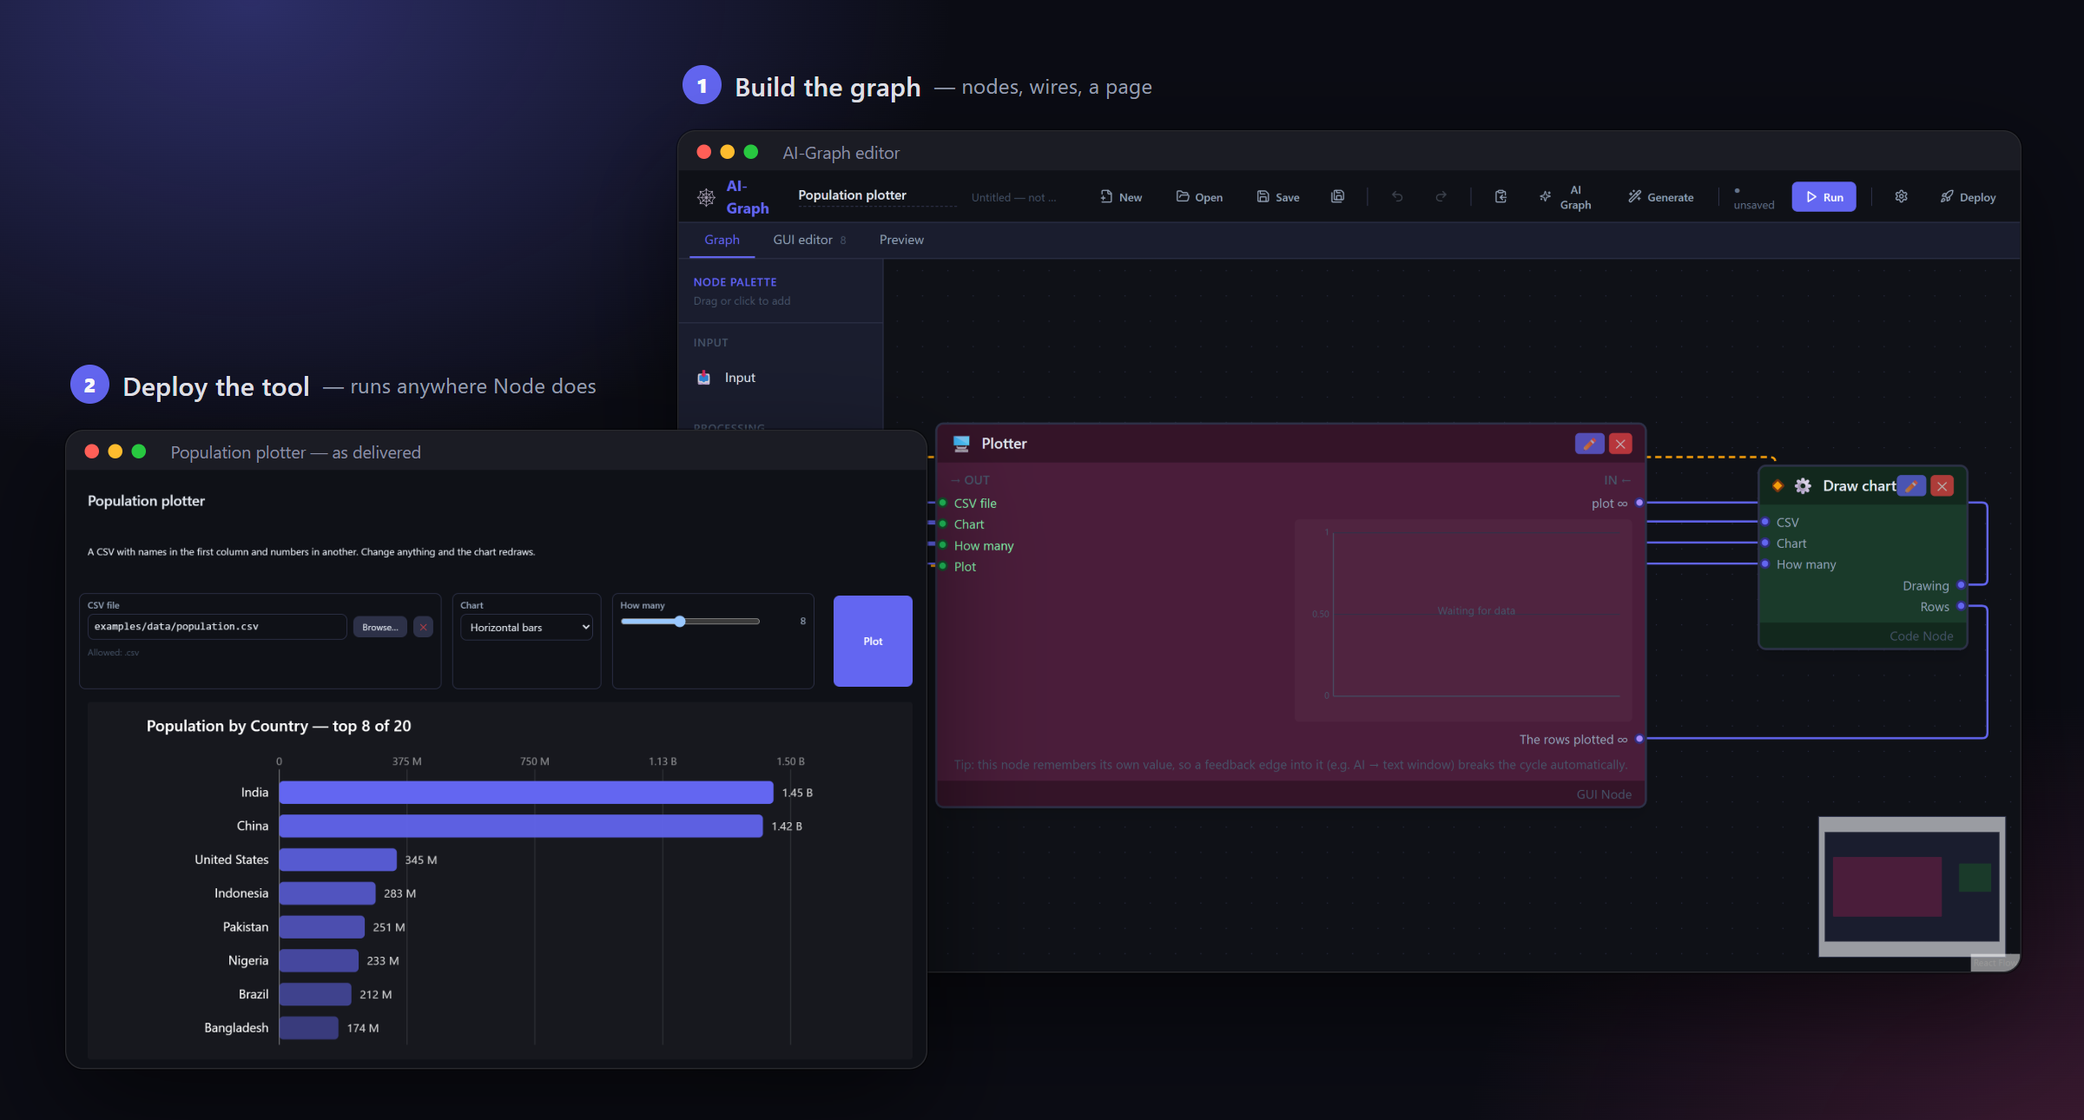
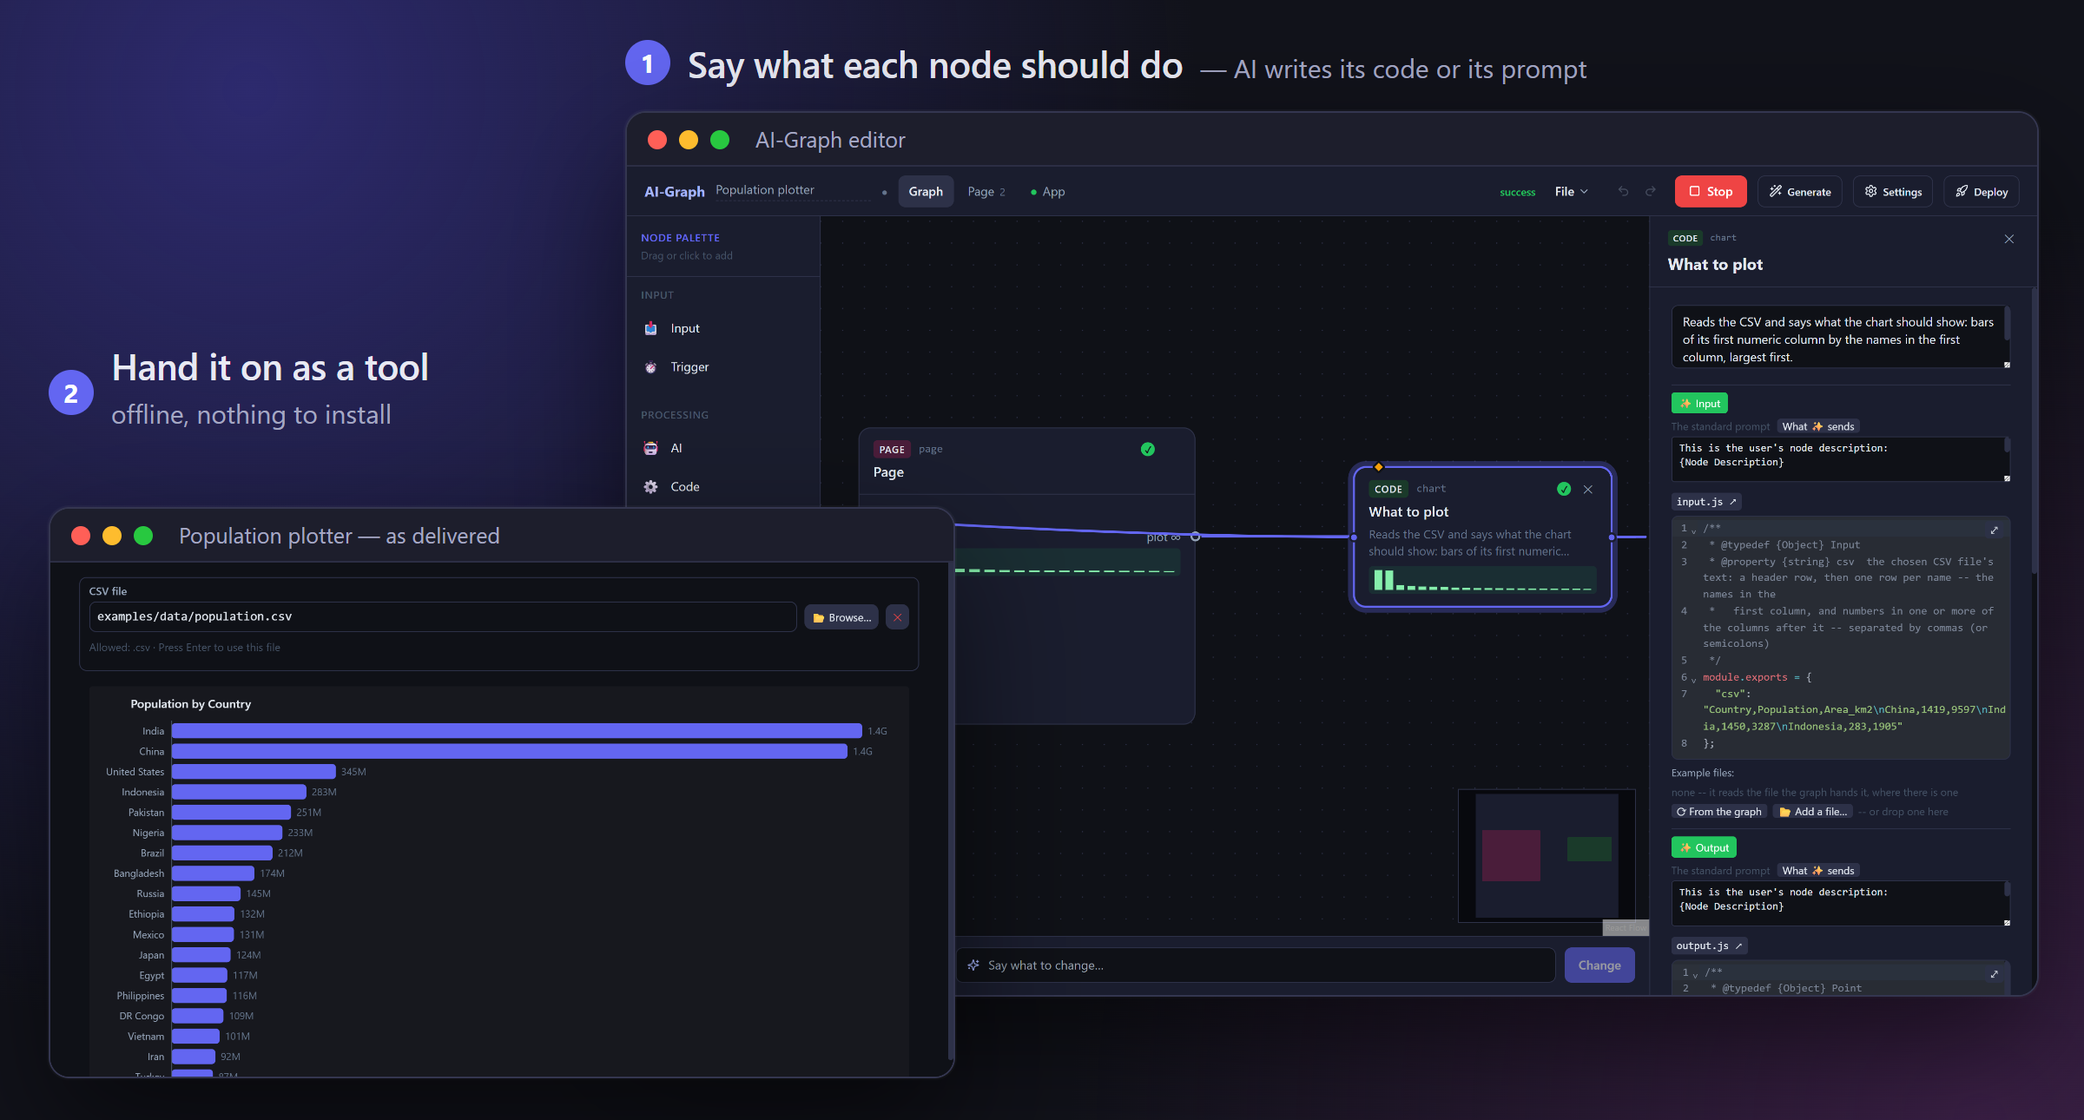
feat(download): zips that carry their own Node -- unzip, double-click, nothing to install
- A release now has one zip per system (windows-x64, macos-arm64, macos-x64,
  linux-x64) with the official Node.js binary in node/, checked against the
  checksums nodejs.org publishes, and its LICENSE beside it; plus
  ai-graph-node-required.zip for any system with a Node of its own. Named
  without the version, so releases/latest/download/<name> is always the newest.
- run.sh, run.cmd and the new run.command (a Mac's double-click) use the Node
  in node/ where the folder has one, else the computer's, checked as before.
- The download test builds a zip with Node in it and starts it on a computer
  whose only Node is too old; it runs on macOS too now.
- README: download links at the top, a table per system, and why no Docker is
  needed; the container is described as what it is for, a server. A new hero
  image from the current editor.
- Version 0.4.0.

diff --git a/engine/src/cli/launchers.ts b/engine/src/cli/launchers.ts
@@ -34,23 +34,33 @@ export interface LauncherOptions {
 /** The node expression that fails on a Node older than NODE_MAJOR. Quote-safe in sh and cmd. */
 const TOO_OLD = `process.exit(Number(process.versions.node.split('.')[0]) < ${NODE_MAJOR} ? 1 : 0)`;
 
+/**
+ * Where a folder carries its own Node: the download for one system has it, so
+ * nothing needs to be installed first -- "install Node 24" was the step that
+ * stopped people who only wanted to try it. Without it, the computer's Node.
+ */
+export const BUNDLED_NODE = { unix: 'node/node', windows: 'node\\node.exe' };
+
 /** `run.sh`, for macOS and Linux. Needs its executable bit -- see `zipMode`. */
 export function runSh({ command, portFromEnv = false }: LauncherOptions): string {
   const port = portFromEnv ? ' ${PORT:+--port "$PORT"}' : '';
   return [
     '#!/bin/sh',
-    `# Needs Node ${NODE_MAJOR} or newer, and nothing else.`,
+    `# Needs Node ${NODE_MAJOR} or newer: the one in ${BUNDLED_NODE.unix} where this folder has it, else this computer's.`,
     '# From its own folder: wherever it was started from, the paths below are relative to it.',
     'cd "$(dirname "$0")" || exit 1',
-    'if ! command -v node >/dev/null 2>&1; then',
+    'NODE=node',
+    `if [ -x ${BUNDLED_NODE.unix} ]; then`,
+    `  NODE=${BUNDLED_NODE.unix}`,
+    'elif ! command -v node >/dev/null 2>&1; then',
     `  echo "Node.js is not installed. Get it from ${GET_NODE} (${NODE_MAJOR} or newer), then run this again." >&2`,
     '  exit 1',
     'fi',
-    `if ! node -e "${TOO_OLD}"; then`,
-    `  echo "This needs Node.js ${NODE_MAJOR} or newer, and this computer has $(node --version). Get the current one from ${GET_NODE}." >&2`,
+    `if ! "$NODE" -e "${TOO_OLD}"; then`,
+    `  echo "This needs Node.js ${NODE_MAJOR} or newer, and this computer has $("$NODE" --version). Get the current one from ${GET_NODE}." >&2`,
     '  exit 1',
     'fi',
-    `exec node ${command}${port} "$@"`,
+    `exec "$NODE" ${command}${port} "$@"`,
     '',
   ].join('\n');
 }
@@ -67,25 +77,32 @@ export function runCmd({ command, portFromEnv = false }: LauncherOptions): strin
   const windowsCommand = command.replace(/\//g, '\\');
   return [
     '@echo off',
-    `rem Needs Node ${NODE_MAJOR} or newer, and nothing else.`,
+    `rem Needs Node ${NODE_MAJOR} or newer: the one in ${BUNDLED_NODE.windows} where this folder has it, else this computer's.`,
     'rem From its own folder: a double-click, a shortcut and "Run as administrator"',
     'rem each start somewhere else, and the paths below are relative to this one.',
     'setlocal',
     'set "CODE=1"',
     'cd /d "%~dp0"',
-    'where node >nul 2>&1 || (',
-    '  echo.',
-    `  echo Node.js is not installed. Get it from ${GET_NODE} ^(${NODE_MAJOR} or newer^), then run this again.`,
-    '  goto :failed',
+    // Unquoted where it is used: both values are free of spaces, and a quoted
+    // command first in `for /f` loses its quotes to cmd /c.
+    'set "NODE=node"',
+    `if exist "${BUNDLED_NODE.windows}" (`,
+    `  set "NODE=${BUNDLED_NODE.windows}"`,
+    ') else (',
+    '  where node >nul 2>&1 || (',
+    '    echo.',
+    `    echo Node.js is not installed. Get it from ${GET_NODE} ^(${NODE_MAJOR} or newer^), then run this again.`,
+    '    goto :failed',
+    '  )',
     ')',
-    `node -e "${TOO_OLD}" || (`,
+    `%NODE% -e "${TOO_OLD}" || (`,
     '  echo.',
-    `  for /f "delims=" %%v in ('node --version') do echo This needs Node.js ${NODE_MAJOR} or newer, and this computer has %%v.`,
+    `  for /f "delims=" %%v in ('%NODE% --version') do echo This needs Node.js ${NODE_MAJOR} or newer, and this computer has %%v.`,
     `  echo Get the current one from ${GET_NODE}, then run this again.`,
     '  goto :failed',
     ')',
     ...(portFromEnv ? ['set "PORTARG="', 'if defined PORT set "PORTARG=--port %PORT%"'] : []),
-    `node ${windowsCommand}${portFromEnv ? ' %PORTARG%' : ''} %*`,
+    `%NODE% ${windowsCommand}${portFromEnv ? ' %PORTARG%' : ''} %*`,
     'set "CODE=%ERRORLEVEL%"',
     'if "%CODE%"=="0" exit /b 0',
     'echo.',
@@ -111,5 +128,5 @@ export function runCmd({ command, portFromEnv = false }: LauncherOptions): strin
  * well be running on Windows, which has no executable bit to read.
  */
 export function zipMode(path: string): number | undefined {
-  return path.endsWith('.sh') ? 0o755 : undefined;
+  return /\.(sh|command)$/.test(path) || path.endsWith(BUNDLED_NODE.unix) ? 0o755 : undefined;
 }

diff --git a/engine/src/cli/launchers.test.ts b/engine/src/cli/launchers.test.ts
@@ -20,13 +20,13 @@ describe('run.sh', () => {
     expect(at('cd "$(dirname "$0")"')).toBeGreaterThan(0);
     expect(at('command -v node')).toBeGreaterThan(at('cd "$(dirname'));
     expect(at(`< ${NODE_MAJOR} ? 1 : 0`)).toBeGreaterThan(at('command -v node'));
-    expect(at('exec node engine/main.ts graph.json --serve "$@"')).toBeGreaterThan(at(`< ${NODE_MAJOR}`));
+    expect(at('exec "$NODE" engine/main.ts graph.json --serve "$@"')).toBeGreaterThan(at(`< ${NODE_MAJOR}`));
   });
 
   it('passes a port only when asked to, and then only when PORT is set', () => {
     expect(script).not.toContain('PORT');
     expect(runSh({ command: 'engine/src/main.ts', portFromEnv: true }))
-      .toContain('exec node engine/src/main.ts ${PORT:+--port "$PORT"} "$@"');
+      .toContain('exec "$NODE" engine/src/main.ts ${PORT:+--port "$PORT"} "$@"');
   });
 });
 
@@ -36,7 +36,7 @@ describe('run.cmd', () => {
 
   it('uses Windows line endings and backslashes', () => {
     expect(script).not.toMatch(/[^\r]\n/);
-    expect(script).toContain('node engine\\src\\main.ts --editor editor\\dist %PORTARG% %*');
+    expect(script).toContain('%NODE% engine\\src\\main.ts --editor editor\\dist %PORTARG% %*');
   });
 
   it('starts from its own folder and checks for Node first', () => {
@@ -44,7 +44,7 @@ describe('run.cmd', () => {
     expect(at('cd /d "%~dp0"')).toBeGreaterThan(0);
     expect(at('where node')).toBeGreaterThan(at('cd /d'));
     expect(at(`< ${NODE_MAJOR} ? 1 : 0`)).toBeGreaterThan(at('where node'));
-    expect(at('node engine\\src\\main.ts')).toBeGreaterThan(at(`< ${NODE_MAJOR}`));
+    expect(at('%NODE% engine\\src\\main.ts')).toBeGreaterThan(at(`< ${NODE_MAJOR}`));
   });
 
   it('keeps the window open on every way out that is a failure', () => {
@@ -69,7 +69,26 @@ describe('zipMode', () => {
   it('makes shell scripts executable and leaves everything else alone', () => {
     expect(zipMode('run.sh')).toBe(0o755);
     expect(zipMode('ai-graph-v1/run.sh')).toBe(0o755);
+    expect(zipMode('ai-graph-v1/run.command')).toBe(0o755);
     expect(zipMode('run.cmd')).toBeUndefined();
     expect(zipMode('engine/main.ts')).toBeUndefined();
+  });
+
+  it('makes the Node a download carries executable', () => {
+    expect(zipMode('ai-graph-v1/node/node')).toBe(0o755);
+    expect(zipMode('ai-graph-v1/node/LICENSE')).toBeUndefined();
+  });
+});
+
+describe('the Node a folder carries', () => {
+  it('is used before the computer\'s, which is then not needed', () => {
+    const sh = runSh({ command: 'engine/main.ts' }).split('\n');
+    const at = (text: string) => sh.findIndex((line) => line.includes(text));
+    expect(at('if [ -x node/node ]; then')).toBeLessThan(at('command -v node'));
+    expect(sh[at('if [ -x node/node ]; then') + 1]).toBe('  NODE=node/node');
+    const cmd = runCmd({ command: 'engine/main.ts' }).split('\r\n');
+    const atCmd = (text: string) => cmd.findIndex((line) => line.includes(text));
+    expect(atCmd('if exist "node\\node.exe" (')).toBeLessThan(atCmd('where node'));
+    expect(cmd[atCmd('if exist "node\\node.exe" (') + 1]).toBe('  set "NODE=node\\node.exe"');
   });
 });

diff --git a/README.md b/README.md
@@ -10,9 +10,14 @@ pipelines, multi-agent workflows and small local apps. Say in plain words what e
 should do, and AI writes its code or its prompt; give the graph a page — a file picker, a
 chat, a chart — and 🚀 Deploy packs it into a folder someone else can run.
 
+### ⬇ [Windows](https://github.com/Archimedes79/AI_Graph/releases/latest/download/ai-graph-windows-x64.zip) · [macOS (Apple silicon)](https://github.com/Archimedes79/AI_Graph/releases/latest/download/ai-graph-macos-arm64.zip) · [macOS (Intel)](https://github.com/Archimedes79/AI_Graph/releases/latest/download/ai-graph-macos-x64.zip) · [Linux](https://github.com/Archimedes79/AI_Graph/releases/latest/download/ai-graph-linux-x64.zip)
+
+Unzip and double-click `run.cmd` (Windows) or `run.command` (macOS) — the editor opens in your browser.<br>
+Nothing to install: each download carries the Node.js it runs on. No Docker, no account.
+
 [Quick start](#quick-start) · [Examples](#the-examples) · [Documentation](#documentation) · [Licence](#licence)
 
-<img src="docs/images/hero.png" alt="The AI-Graph editor with the population plotter graph, and the same graph delivered as a tool that draws a bar chart" width="100%">
+<img src="docs/images/hero.png" alt="The AI-Graph editor: a graph of a file picker, a code node and a chart, the code node's panel open with its text and the files AI wrote from it -- and the same graph delivered as a tool that draws a bar chart" width="100%">
 
 </div>
 
@@ -203,6 +208,29 @@ node engine/src/main.ts examples/population_plotter
 
 ## Quick start
 
+**Download, unzip, double-click.** Each download holds everything it needs, Node.js
+included — nothing is installed, before or while it runs:
+
+| System | Download | Start it with |
+|---|---|---|
+| Windows | [ai-graph-windows-x64.zip](https://github.com/Archimedes79/AI_Graph/releases/latest/download/ai-graph-windows-x64.zip) | `run.cmd` |
+| macOS, Apple silicon (M1 and later) | [ai-graph-macos-arm64.zip](https://github.com/Archimedes79/AI_Graph/releases/latest/download/ai-graph-macos-arm64.zip) | `run.command` |
+| macOS, Intel | [ai-graph-macos-x64.zip](https://github.com/Archimedes79/AI_Graph/releases/latest/download/ai-graph-macos-x64.zip) | `run.command` |
+| Linux | [ai-graph-linux-x64.zip](https://github.com/Archimedes79/AI_Graph/releases/latest/download/ai-graph-linux-x64.zip) | `./run.sh` |
+| Any, with Node 24 of your own | [ai-graph-node-required.zip](https://github.com/Archimedes79/AI_Graph/releases/latest/download/ai-graph-node-required.zip) (1 MB) | any of them |
+
+The editor opens in your browser at <http://127.0.0.1:8000>, or the next free port.
+macOS asks once about a script from the internet: *System Settings ▸ Privacy & Security
+▸ Open Anyway*. Older versions, and `ai-graph-latest.zip` with what `main` is today,
+are on the [releases page](https://github.com/Archimedes79/AI_Graph/releases).
+
+**Why no Docker?** AI-Graph is JavaScript from end to end: the engine is TypeScript that
+Node runs as it is, with no dependencies, and the page is built once. A container adds
+nothing a person trying it needs. The [image](docs/install.md#in-a-container) is there
+for a server — beside a model server, or on a machine nobody sits at.
+
+**From the source**, to work on it:
+
 ```bash
 git clone https://github.com/Archimedes79/AI_Graph.git
 cd AI_Graph
@@ -211,13 +239,9 @@ start.cmd          # Windows, cmd -- double-clicking it works too
 ./start.sh         # macOS, Linux
 ```
 
-That installs on first use, builds the page, and opens the editor. Node 24 or newer,
-nothing else. **Without git:** download `ai-graph-latest.zip` (always the current `main`)
-or a versioned `ai-graph-vX.Y.Z.zip` from the
-[releases page](https://github.com/Archimedes79/AI_Graph/releases), unzip, and run
-`run.cmd` / `./run.sh`. By hand it is `npm ci`, `npm run build`, `npm start`. The editor opens at <http://127.0.0.1:8000>. `npm run
-dev` is the same with live reload; `docker compose up --build` the same in a container
-beside a local model server. Details in [docs/install.md](docs/install.md).
+That installs on first use, builds the page, and opens the editor; it needs Node 24 or
+newer. By hand it is `npm ci`, `npm run build`, `npm start`; `npm run dev` is the same
+with live reload. Details in [docs/install.md](docs/install.md).
 
 **Running a graph needs no editor at all:**
 

diff --git a/docs/install.md b/docs/install.md
@@ -72,34 +72,35 @@ first.
 
 ## The download, without a checkout
 
-The [releases page](https://github.com/Archimedes79/AI_Graph/releases) has two kinds of
-zip, both holding the engine's source, the editor's built page and the examples:
+The [releases page](https://github.com/Archimedes79/AI_Graph/releases) has zips that
+hold the engine's source, the editor's built page and the examples:
 
 | Release | Zip | What it is |
 |---|---|---|
-| `vX.Y.Z` | `ai-graph-vX.Y.Z.zip` | A version. Published when that tag is pushed, and never changes afterwards. |
-| `latest` (pre-release) | `ai-graph-latest.zip` | Whatever `main` is. Rebuilt on every green push to `main`, at an address that stays the same. |
+| `vX.Y.Z` | `ai-graph-windows-x64.zip`, `ai-graph-macos-arm64.zip`, `ai-graph-macos-x64.zip`, `ai-graph-linux-x64.zip` | A version for one system, with the Node.js it runs on in `node/`: nothing to install. Published when the tag is pushed, and never changed afterwards. `releases/latest/download/<name>` is always the newest. |
+| `vX.Y.Z` | `ai-graph-node-required.zip` | The same for any system, without Node: 1 MB, for a computer that has Node 24 or newer. |
+| `latest` (pre-release) | `ai-graph-latest.zip` | Whatever `main` is, without Node. Rebuilt on every green push to `main`, at an address that stays the same. |
 
-Take the `ai-graph-….zip` asset. The *Source code (zip)* GitHub adds to every release is
-the bare repository — no built page and no `run.cmd` — and needs the checkout route above.
+The *Source code (zip)* GitHub adds to every release is the bare repository — no built
+page and no `run.cmd` — and needs the checkout route above.
 
 The engine has no runtime dependencies and Node runs its TypeScript unbuilt, so there is
-nothing to install and nothing to build:
+nothing to install and nothing to build: unzip, then double-click `run.cmd` (Windows) or
+`run.command` (macOS), or run `./run.sh` in a terminal. macOS asks once about a script
+from the internet: *System Settings ▸ Privacy & Security ▸ Open Anyway*.
 
-```bash
-unzip ai-graph-latest.zip && cd ai-graph-latest
-./run.sh          # run.cmd on Windows -- double-clicking it works
-```
+The launchers use the Node in `node/` where the folder has one, and otherwise the
+computer's, which must then be 24 or newer: they check before starting, a missing or
+older Node is named in a sentence, and on Windows the window stays open until it has been
+read. The editor opens in the browser on port 8000, or the next free one if something —
+another editor, say — is already there; `PORT=8123` insists on one. `VERSION` in the
+folder says which build it is and which commit it came from.
 
-Node 24 or newer is the whole requirement, and `run.sh` / `run.cmd` check it before
-starting: a missing or older Node is named in a sentence, and on Windows the window stays
-open until it has been read. The editor opens in the browser on port 8000, or the next
-free one if something — another editor, say — is already there; `PORT=8123` insists on
-one. `VERSION` in the folder says which build it is and which commit it came from.
-
-`npm run package` builds the same zip from a checkout, and `node --test
-scripts/package.test.mjs` unzips it and starts it the way a person would, which CI does on
-Linux and on Windows before anything is published.
+`npm run package` builds the zip without Node from a checkout; `node scripts/package.mjs
+out.zip --node <an unpacked Node download>` builds one with it. `node --test
+scripts/package.test.mjs` unzips both and starts them the way a person would — the one
+with Node on a computer whose only Node is too old — which CI does on Linux, macOS and
+Windows before anything is published.
 
 ## In a container
 

diff --git a/docs/licenses.md b/docs/licenses.md
@@ -10,13 +10,14 @@ checked again on every push, in the *Licences* step of
 | | Result |
 |---|---|
 | AI-Graph's own licence | [PolyForm Noncommercial 1.0.0](../LICENSE), with a `Required Notice:` line naming the copyright holder. The `package.json` files declare it by its SPDX name, `PolyForm-Noncommercial-1.0.0`. |
-| Every copy carries those terms | The repository and the download have `LICENSE` at their top, the container image at `/app/LICENSE`, and every deploy bundle beside its `run.sh`. Tests fail without it: `scripts/package.test.mjs` for the download, `engine/src/cli/bundle.test.ts` for a bundle. |
+| Every copy carries those terms | The repository and every download have `LICENSE` at their top, the container image at `/app/LICENSE`, and every deploy bundle beside its `run.sh`. Tests fail without it: `scripts/package.test.mjs` for the download, `engine/src/cli/bundle.test.ts` for a bundle. |
 | Code by others in the repository | None. Everything not written here is an npm package, installed from `package-lock.json` and never committed. |
 | Packages the page is built from | 48: MIT 38, ISC 9, BSD-3-Clause 1 -- the libraries it imports, and two build tools for the code they write into it, the loader of its chunks and its base stylesheet. |
 | Their notices | Each build writes `licenses.txt` beside the page: every package it is made of, with that package's own licence text -- what MIT, ISC and BSD ask for, and what a minified build otherwise drops. The page links it (`rel="license"`); the download carries it in `editor/dist/`, a deploy bundle in `web/`. |
 | Development tools | 377 packages that build and test it: MIT 323, ISC 30, Apache-2.0 9, BSD-2-Clause 9, BSD-3-Clause 3, MIT-or-CC0 1, plus browser-support data under CC-BY-4.0 and an argument parser under the Python licence. Only the container image carries them, as npm installed them: each in its own folder, with its own licence file. |
 | Copyleft | No package under GPL, LGPL, AGPL or MPL is installed at all. (The operating system inside the container image is another matter: see below.) |
 | Example data | `examples/data/stories/` and `examples/data/paper/` are fiction written for the examples, and the paper says so in its byline. `examples/data/*.csv` hold a few rounded population and area figures: facts, not anyone's text. |
+| Node.js in the downloads | The downloads named after a system (`ai-graph-windows-x64.zip`, ...) carry the official Node.js binary for it, so nothing has to be installed. Node.js is MIT; what it is built from (V8, libuv, OpenSSL, ICU and others) comes under permissive licences that ask for their notices to travel along. They do: Node's own `LICENSE`, which lists every one of them, goes into the zip as `node/LICENSE`, and `scripts/package.test.mjs` fails without it. The binary is fetched from nodejs.org in CI and checked against the checksums published there. |
 | Images | `docs/images/hero.png` is a screenshot of AI-Graph itself. |
 | Loaded from elsewhere | Nothing: the page loads no fonts, scripts or styles from another site. |
 
